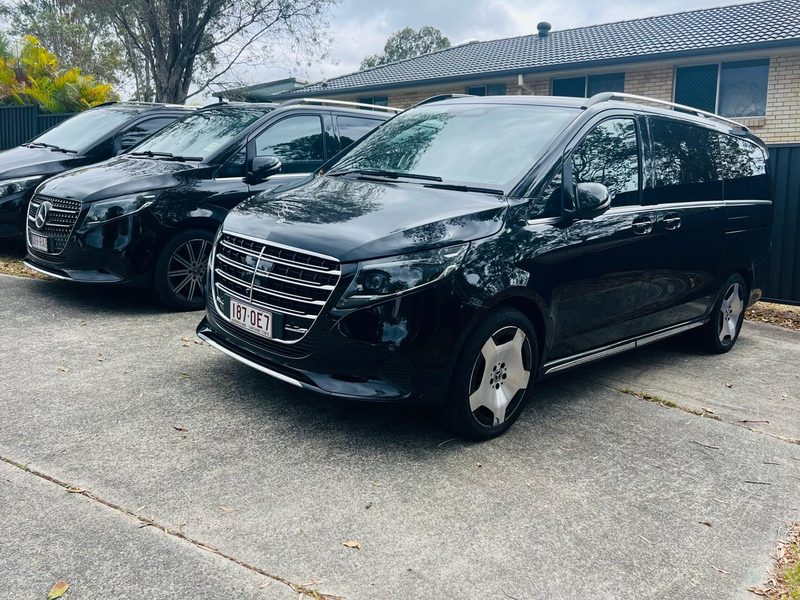
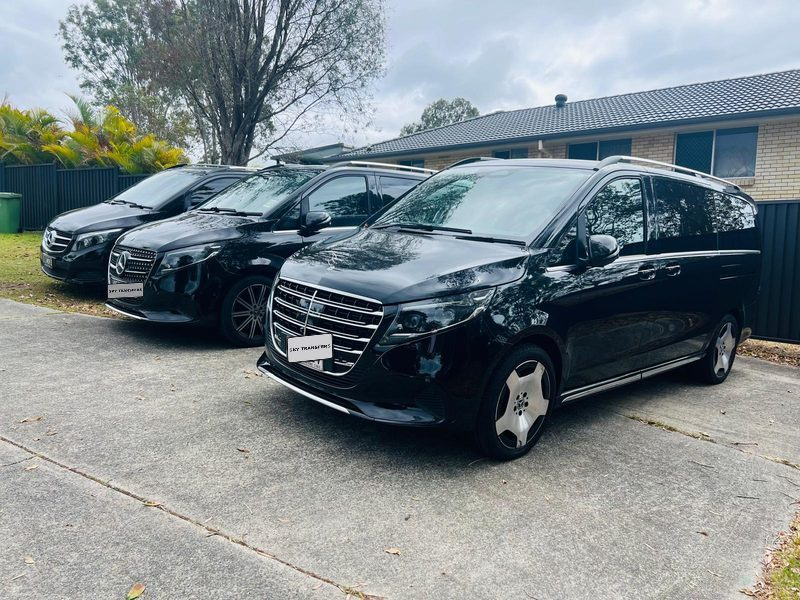
Show SKY TRANSFERS on every visible number plate; new fleet photos
Registrations are overlaid rather than shown. The sedan card moves to a
head-on Camry (the old one had its plate scribbled out), the luxury sedan
and minivan get the new photographs, and the Sprinter 10-seater moves to
the airport shot. The wide fleet-lineup band is removed.

diff --git a/index.html b/index.html
@@ -1599,18 +1599,13 @@ function buildRequest(){
   <p class="kick">The fleet</p>
   <h2>The right vehicle for every group</h2>
   <p class="lead">From a solo business trip to an 18-person tour group with golf bags — one booking, one fixed price per vehicle, never per person.</p>
-  <figure class="photo-band" style="margin:0 0 20px;padding:0;max-width:none">
-    <img src="/img/fleet-lineup.jpg" width="1400" height="781" loading="lazy" decoding="async"
-         alt="The Sky Transfers fleet lined up with a chauffeur standing beside each vehicle.">
-    <figcaption>Our own vehicles, our own chauffeurs.</figcaption>
-  </figure>
   <div class="fleet-grid" id="fleet-grid">
-    <div class="fleet-card"><img class="veh-photo" src="/img/fleet-sedan.jpg" width="800" height="600" loading="lazy" decoding="async" alt="Our Toyota Camry parked on a palm-lined Gold Coast street."><h3>Sedan</h3><p>1&ndash;3 passengers &middot; 2 large bags. Business trips and couples.</p><div class="from">from $80</div></div>
+    <div class="fleet-card"><img class="veh-photo" src="/img/fleet-sedan.jpg" width="800" height="600" loading="lazy" decoding="async" alt="Our Toyota Camry Hybrid, photographed head-on in a waiting bay."><h3>Sedan</h3><p>1&ndash;3 passengers &middot; 2 large bags. Business trips and couples.</p><div class="from">from $80</div></div>
     <div class="fleet-card"><img class="veh-photo" src="/img/fleet-suv.jpg" width="800" height="600" loading="lazy" decoding="async" alt="Our white Audi Q7 parked alongside the rest of the fleet."><h3>SUV</h3><p>1&ndash;4 passengers &middot; 4 bags. Extra room and comfort.</p><div class="from">from $90</div></div>
     <div class="fleet-card"><img class="veh-photo" src="/img/fleet-people-mover.jpg" width="800" height="600" loading="lazy" decoding="async" alt="Our Kia Carnival people mover with the sliding door open, showing the middle row."><h3>People Mover</h3><p>1&ndash;7 passengers &middot; 6 bags. Families, prams and holiday luggage.</p><div class="from">from $100</div></div>
-    <div class="fleet-card"><img class="veh-photo" src="/img/fleet-luxury-sedan.jpg" width="800" height="600" loading="lazy" decoding="async" alt="Our black Mercedes S-Class parked by the water on the Gold Coast."><h3>Luxury Sedan</h3><p>1&ndash;3 passengers &middot; 2 bags. Mercedes E-Class or S-Class.</p><div class="from">from $105</div></div>
-    <div class="fleet-card"><img class="veh-photo" src="/img/fleet-luxury-minivan.jpg" width="800" height="600" loading="lazy" decoding="async" alt="Three of our black Mercedes V-Class people movers parked together."><h3>Luxury Minivan</h3><p>1&ndash;7 passengers &middot; 6 bags. Mercedes V-Class comfort.</p><div class="from">from $115</div></div>
-    <div class="fleet-card"><img class="veh-photo" src="/img/fleet-sprinter-exterior.jpg" width="800" height="600" loading="lazy" decoding="async" alt="One of our black Mercedes Sprinters parked on a Brisbane street."><h3>Mercedes Sprinter 10-Seater</h3><p>Up to 10 passengers &middot; 11 bags. Crews and tour groups.</p><div class="from">from $165</div></div>
+    <div class="fleet-card"><img class="veh-photo" src="/img/fleet-luxury-sedan.jpg" width="800" height="600" loading="lazy" decoding="async" alt="Our Mercedes-Benz S-Class waiting at a hotel entrance."><h3>Luxury Sedan</h3><p>1&ndash;3 passengers &middot; 2 bags. Mercedes E-Class or S-Class.</p><div class="from">from $105</div></div>
+    <div class="fleet-card"><img class="veh-photo" src="/img/fleet-luxury-minivan.jpg" width="800" height="600" loading="lazy" decoding="async" alt="Three of our black Mercedes-Benz V-Class people movers on the driveway."><h3>Luxury Minivan</h3><p>1&ndash;7 passengers &middot; 6 bags. Mercedes V-Class comfort.</p><div class="from">from $115</div></div>
+    <div class="fleet-card"><img class="veh-photo" src="/img/fleet-sprinter-exterior.jpg" width="800" height="600" loading="lazy" decoding="async" alt="One of our Mercedes-Benz Sprinters waiting in an airport car park."><h3>Mercedes Sprinter 10-Seater</h3><p>Up to 10 passengers &middot; 11 bags. Crews and tour groups.</p><div class="from">from $165</div></div>
     <div class="fleet-card"><img class="veh-photo" src="/img/fleet-sprinter-14.jpg" width="800" height="600" loading="lazy" decoding="async" alt="One of our Mercedes Sprinter 14-seaters, photographed from the front."><h3>Mercedes Sprinter 14-Seater</h3><p>Up to 14 passengers &middot; 15 bags. One vehicle for the whole party.</p><div class="from">from $240</div></div>
     <div class="fleet-card"><span class="veh-art" data-veh="7"></span><h3>Mini Coach 18-Seater</h3><p>Up to 18 passengers &middot; 18 bags. Conferences, clubs and school groups.</p><div class="from">quoted per job</div></div>
   </div>
